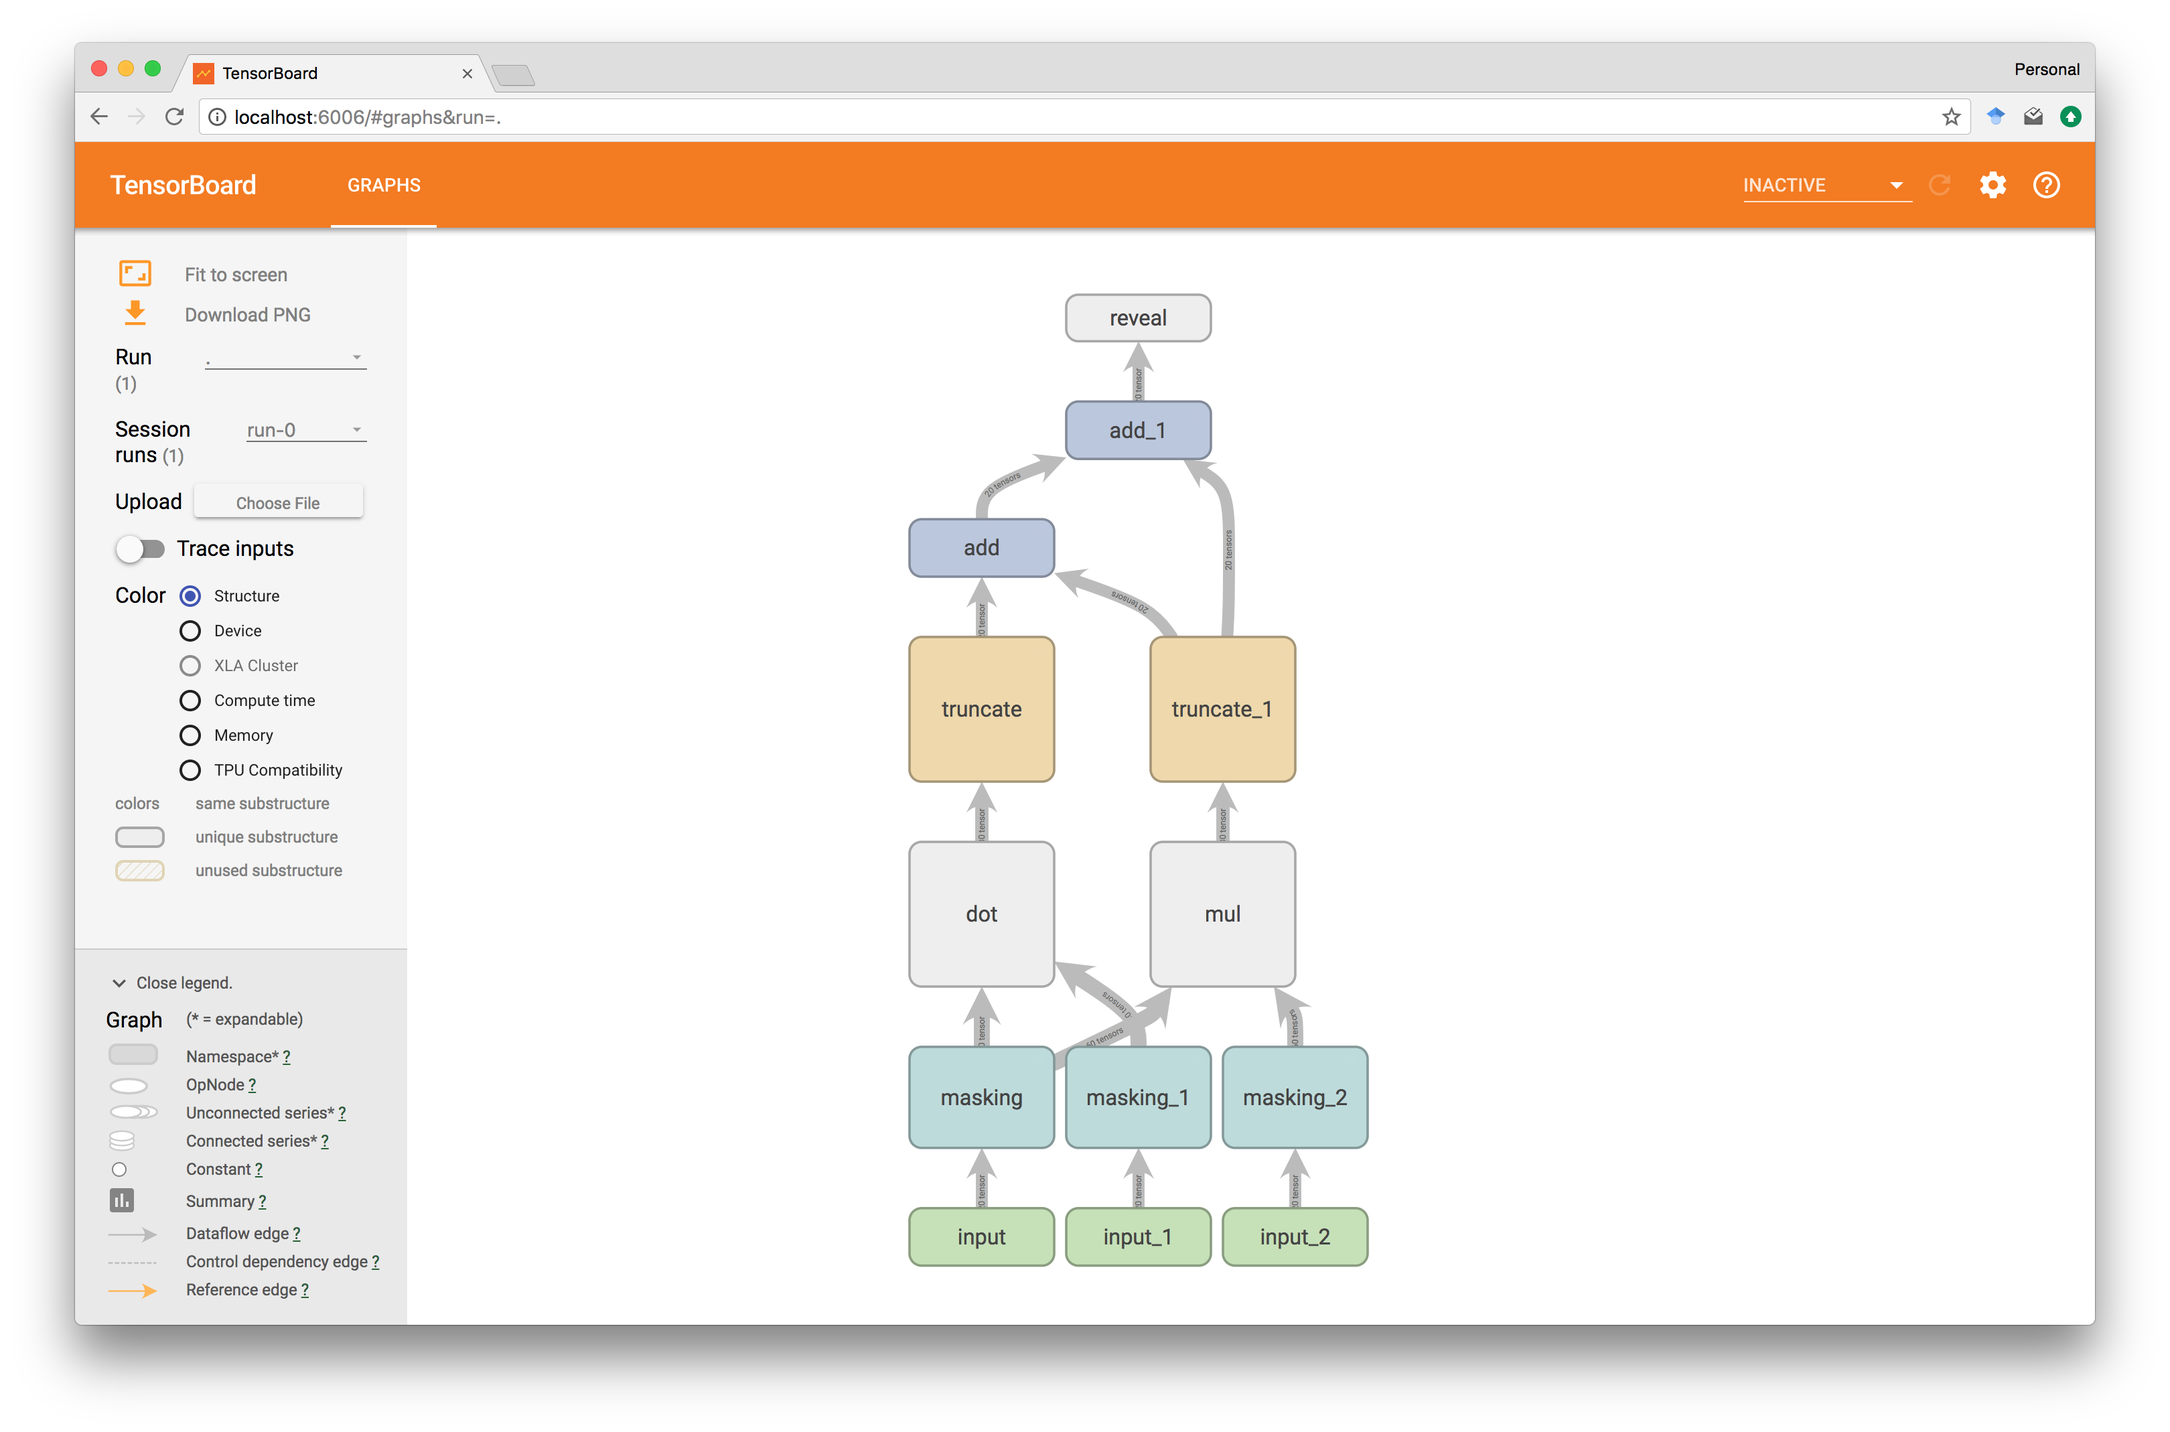
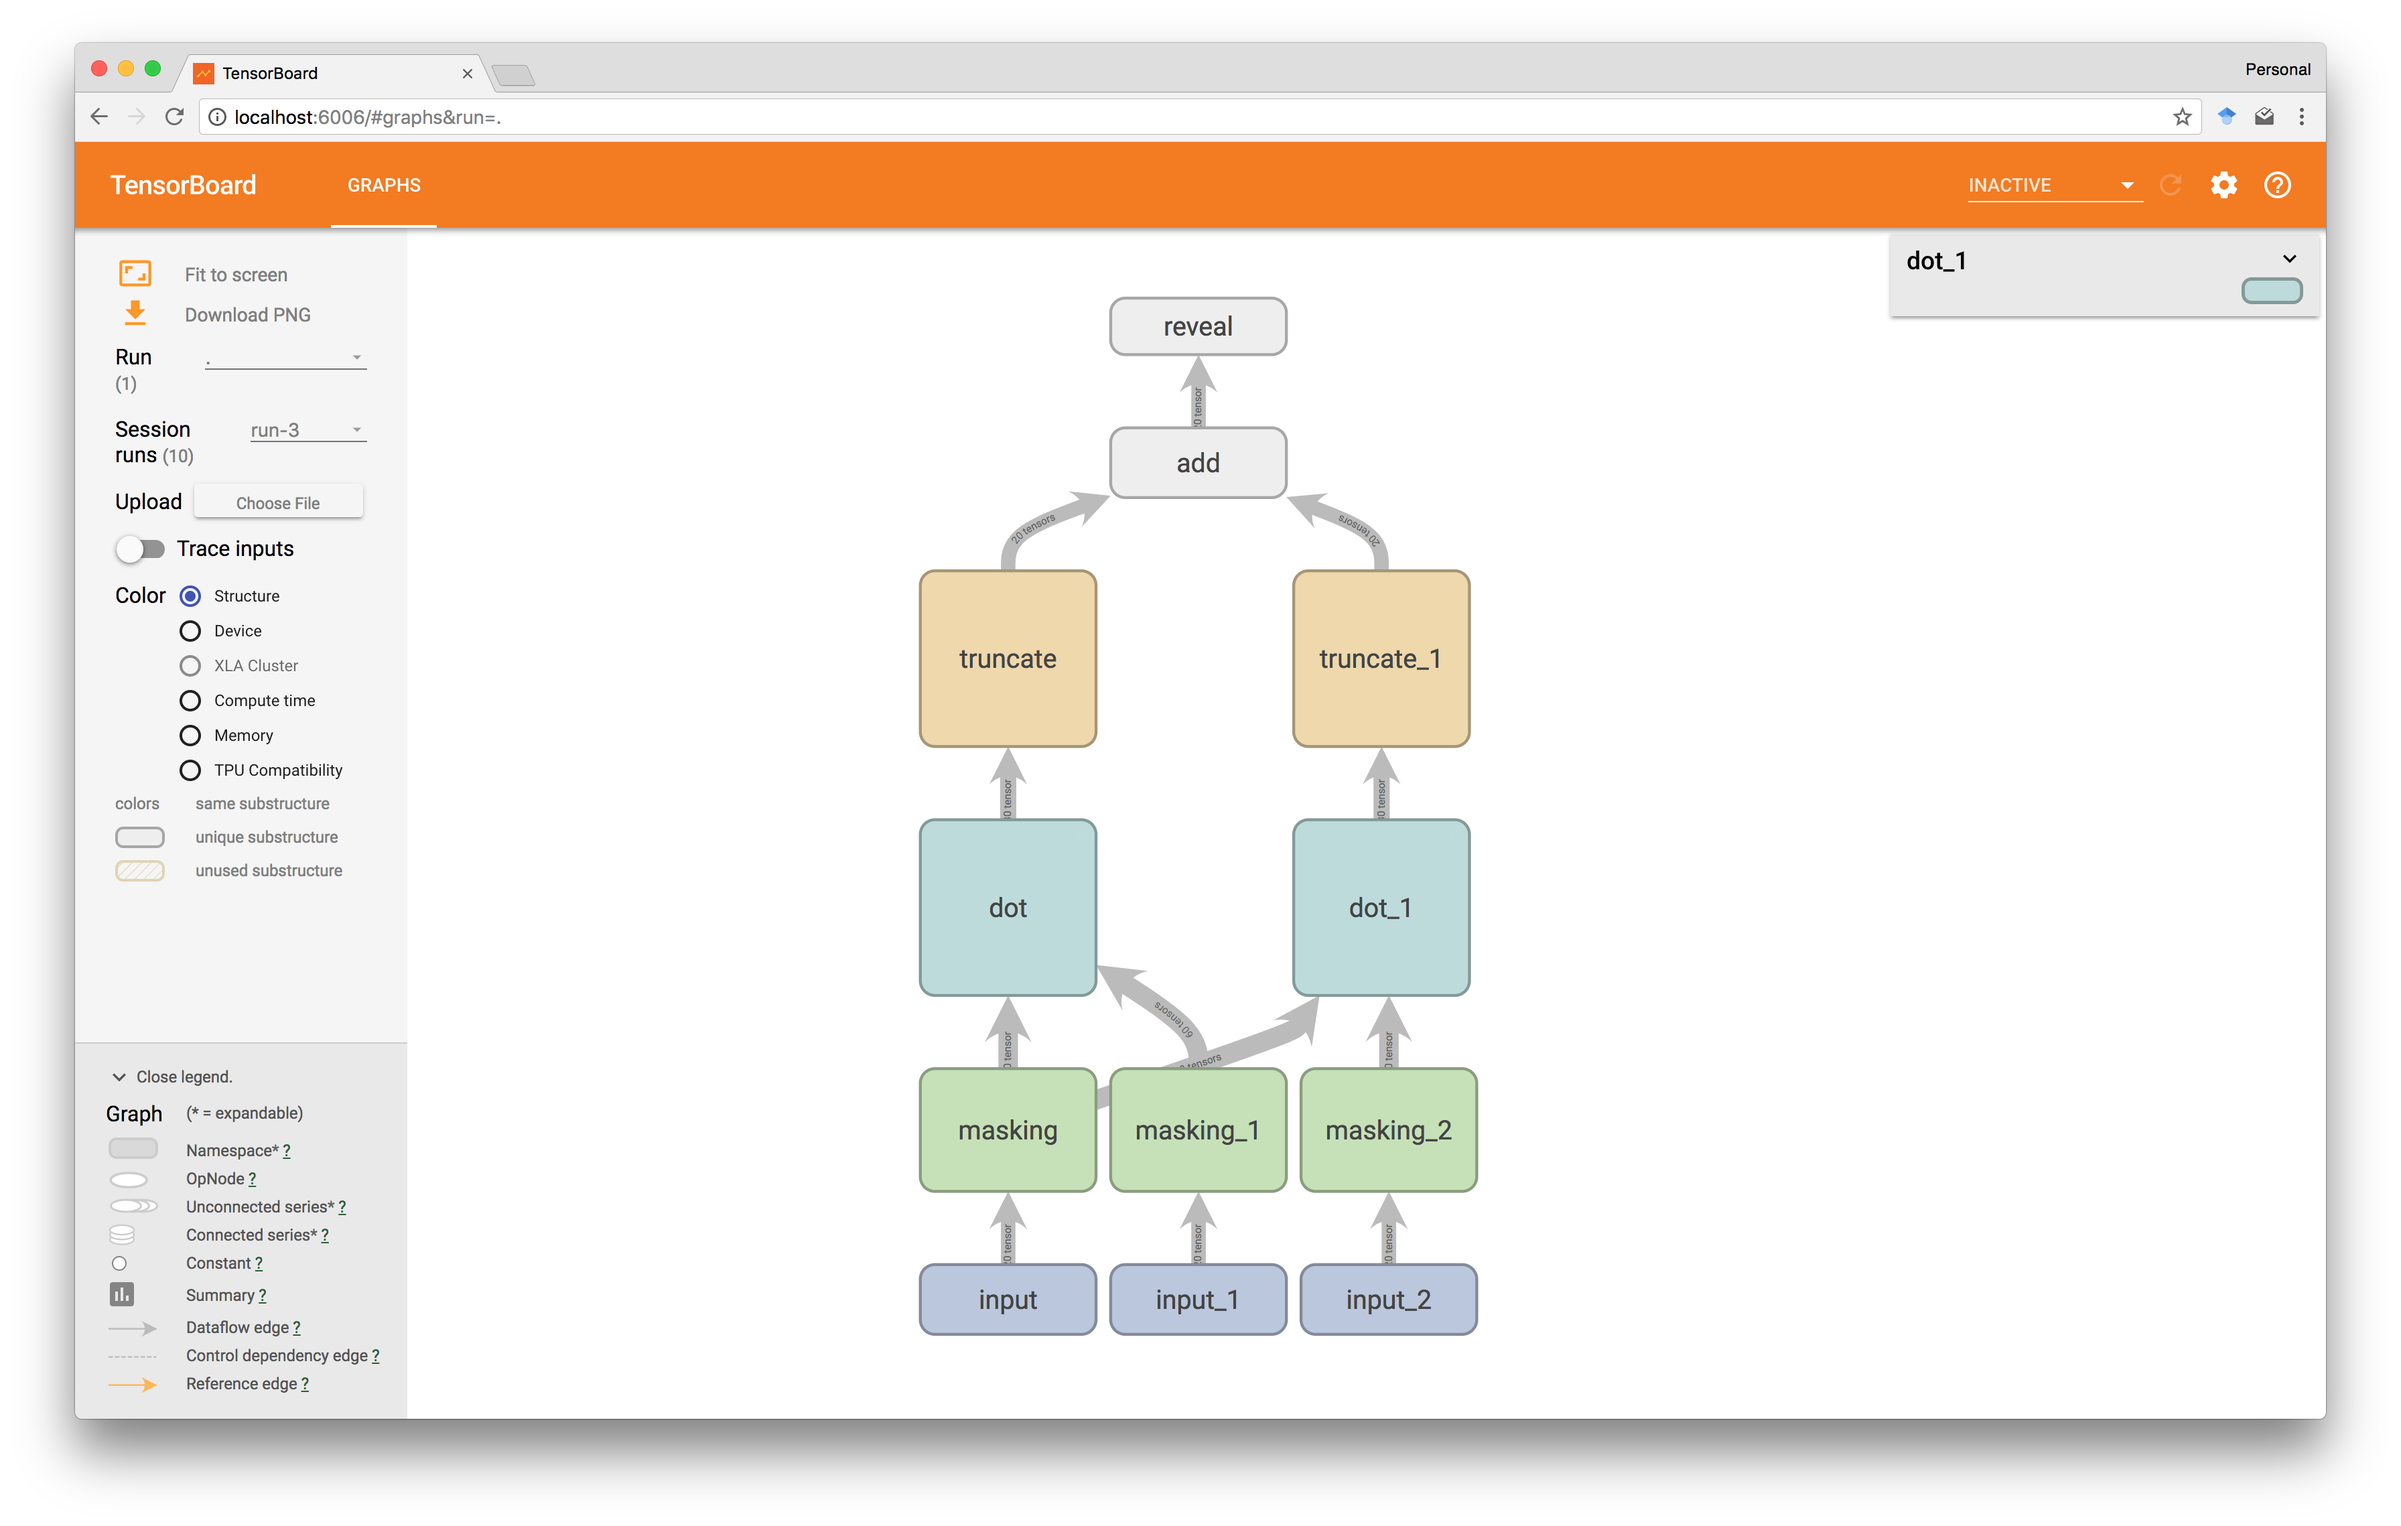
..

Changed region(s): [[0.0312, 0.0309, 0.9664, 0.8952], [0.0312, 0.6483, 0.9664, 0.957]]

diff --git a/_posts/2018-03-01-secure-computation-as-dataflow-programs.md b/_posts/2018-03-01-secure-computation-as-dataflow-programs.md
@@ -1,11 +1,13 @@
 ---
 layout:     post
-title:      "[Draft] Secure Computations as Dataflow Programs"
+title:      "Secure Computations as Dataflow Programs"
 subtitle:   "Implementing the SPDZ Protocol using TensorFlow"
 date:       2018-03-01 12:00:00
 author:     "Morten Dahl"
 header-img: "assets/tensorspdz/tensorflow.png"
 ---
+
+<em><strong>This post is still very much a draft.</strong></em> 
 
 <em><strong>TL;DR:</strong> TODO.</em> 
 
@@ -39,10 +41,14 @@ https://github.com/ppwwyyxx/tensorpack
 https://github.com/tensorflow/serving/issues/193
 https://github.com/sandtable/ssl_grpc_example
 
+[TensorBoard](https://www.tensorflow.org/programmers_guide/graph_viz)
 
-# The SPDZ Protocol
 
-If we look back at the [SPDZ](/2017/09/03/the-spdz-protocol-part1/) [protocol](/2017/09/10/the-spdz-protocol-part2/) and some of the [applications](/2017/09/19/private-image-analysis-with-mpc/) we've covered so far, we see that the typical secure operations we need are addition, subtraction, multiplication, dot products, and truncation.
+# Background
+
+## The SPDZ Protocol
+
+If we look back at the [SPDZ](/2017/09/03/the-spdz-protocol-part1/) [protocol](/2017/09/10/the-spdz-protocol-part2/) and some of the [applications](/2017/09/19/private-image-analysis-with-mpc/) we've covered so far, we see that the typical secure operations we need are tensor addition, subtraction, multiplication, dot products, and fixedpoint truncation.
 
 Needed operations
 
@@ -61,10 +67,8 @@ We will go into detail in another blog post about how these are implemented over
 `decode`
 
 
-# Dataflow Programs
 
-
-# TensorFlow
+## TensorFlow
 
 ![](/assets/tensorspdz/structure.png)
 
@@ -169,7 +173,7 @@ def dot(x, y):
     return truncate(z)
 ```
 
-However, we see that with `tf.device()` this is still relatively straight-forward, at least if the [secure protocol](/2017/09/03/the-spdz-protocol-part1/#multiplication) is already understood. We first construct a graph that makes the crypto producer generate a new dot triple. The output nodes of this graph is `a0, a1, b0, b1, ab0, ab1`
+However, we see that with `tf.device()` this is still relatively straight-forward, at least if the [protocol for secure dot prodcuts](/2017/09/03/the-spdz-protocol-part1/#multiplication) is already understood. We first construct a graph that makes the crypto producer generate a new dot triple. The output nodes of this graph is `a0, a1, b0, b1, ab0, ab1`
 
 With `crt_sub` we then build graphs for the two servers that masks `x` and `y`. Note that TensorFlow will here take care of inserting networking code that sends the value of e.g. `a0` to `SERVER_0` during execution.
 
@@ -214,26 +218,15 @@ server.join()
 Here the value of `ROLE` is the only thing that differs between the programs the five players run and typically given as a command-line argument.
 
 
-# Profiling
-
-**TODO** compute time in TensorBoard
-
-![](/assets/tensorspdz/dot-computetime.png)
-
-**TODO** tracing
-
-
 # Optimisations
 
-**TODO** `tf.staging`
-**TODO** XLA
-
+Once the basic is in place we can also start to look at a few optimisations.
 
 ## Reusing Masked Values
 
-In [previous](/2017/09/10/the-spdz-protocol-part2/) [posts](/2017/09/19/private-image-analysis-with-mpc/#generalised-triples) it was already mentioned that we'd ideally want to only mask every private value once to primarily save on networking. For instance, if we are computing both `dot(w, x)` and `dot(w, y)` then we want to use the same masked version of `w` in both. If we are for instance doing predictions with weights `w` then  ... **TODO** Turns out it's very straight forward to implement this in our setting.
+In [previous](/2017/09/10/the-spdz-protocol-part2/) [posts](/2017/09/19/private-image-analysis-with-mpc/#generalised-triples) we already mentioned that we'd ideally want to only mask every private value once to primarily save on networking. For instance, if we are computing both `dot(w, x)` and `dot(w, y)` then we want to use the same masked version of `w` in both: if we are e.g. doing multiple predictions with the same weights `w` then in the long term the initial cost of masking `w` can be amortised away.
 
-For starters, the dataflow nature of TensorFlow will take care of only recomputing the parts of the graph that actually change when the input values are changed. For instance, an application that computes `dot(w, x)` will reuse the value of `w` between executions with different values of `x` changes (unless of course the value of `w` somehow depends on the value of `x` elsewhere).
+To implement this we first note that the dataflow nature of TensorFlow will take care of only recomputing the parts of the graph that actually change when the input values are changed. For instance, an application that computes `dot(w, x)` will reuse the value of `w` between executions with different values of `x` changes (unless of course the value of `w` somehow depends on the value of `x` elsewhere).
 
 We can do better though, since this will not help us in an application that computes both `dot(w, x)` and `dot(w, y)` in each execution.
 
@@ -286,7 +279,7 @@ def mask(x):
     return x.masked
 ```
 
-Finally, `dot` may now be rewritten as below, where we additionally also cache the output node so that a secure computation such as `dot(x, y) + dot(x, y)` will reuses that node in the graph and hence only compute the three remaining steps of `dot(x, y)` once.
+Finally, `dot` may now be rewritten as below, where we additionally also cache the output node so that if the same dot product is needed in several places in the graph then they will all feed from this node.
 
 ```python
 def dot(x, y):
@@ -330,10 +323,42 @@ def dot(x, y):
     return z
 ```
 
+As a verification, TensorBoard shows us that the graph structure is as expected.
+
 ![](/assets/tensorspdz/masking-reuse.png)
 
-# Experiments
+Note here that the leftmost masking block, correspoding to `mask(x)`, is feeding into both dot blocks as intended.
 
-## Setup
 
-GCP
+## Staging
+
+<em>(Coming soon: using `tf.staging` to buffer)</em>
+
+
+# Profiling
+
+As a final reason to be excited about building dataflow programs in TensorFlow, we also look at the built-in profiling services. In particular, in TensorBoard we can easily see how expensive each operation was both in terms of compute and memory.
+
+![](/assets/tensorspdz/computetime.png)
+
+The heatmap in the above shows that masking and dot products are the most expensive operations we ran, and by clicking on e.g. the rightmost dot product we see that it took roughly 50ms to execute (using the [localhost configuration](TODO)). Moreover, below we navigate further into the dot block and see that sharing was probably the most expensive sub-operations, in this particular run taking 36ms.
+
+![](/assets/tensorspdz/computetime-detailed.png)
+
+But we can go even further and get detailed tracing information. Below we see all operations performed by our five players, with the two servers first, followed by the crypto producer, the input provider, and the output receiver. Clicking on one of the operations additionally allows us to pinpoint exactly where in the execution we were.
+
+![](/assets/tensorspdz/tracing.png)
+ 
+This also shows that TensorFlow automatically figured out to use six concurrent threads to run the operations of the first three players, and that the two servers began processing before the crypto producer had completed; in other words, it looks like it figured out how to perform streaming of the computation.
+
+
+# Running the Code
+
+<em>(Coming soon; see the [GitHub repo](https://github.com/mortendahl/privateml/tree/master/tensorflow/spdz/simple-dense) for now)</em>
+
+<!--
+# Dump
+
+- https://learningtensorflow.com/lesson11/
+- [XLA](https://www.tensorflow.org/performance/xla/)
+-->
